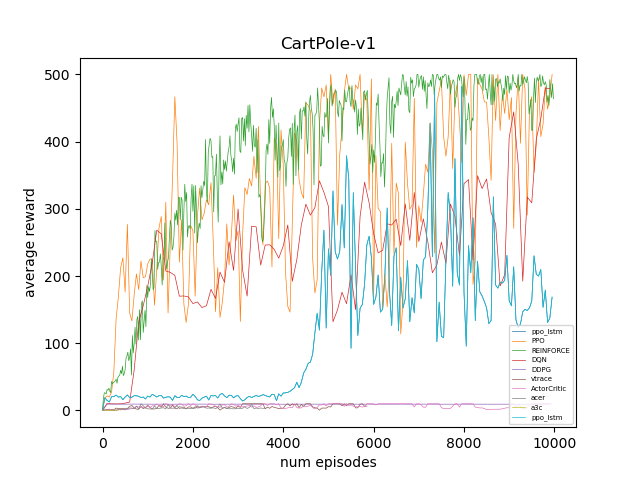
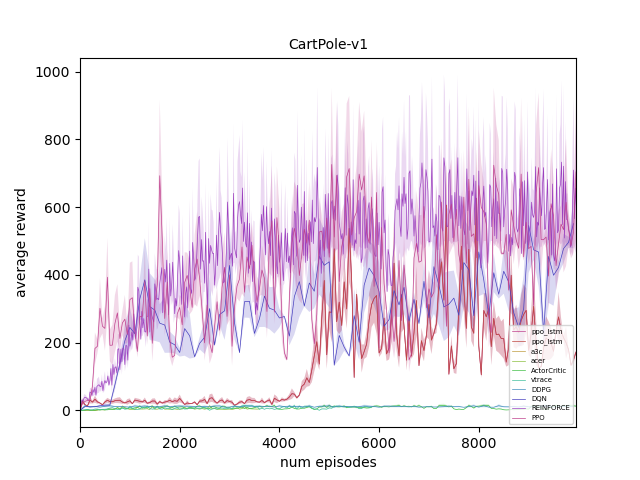
.

diff --git a/single_agent/vis/draw_line.py b/single_agent/vis/draw_line.py
@@ -1,53 +1,56 @@
-from typing import Counter
+import seaborn as sns
 import matplotlib.pyplot as plt
+import numpy as np
 import csv
+import random
 
 
-def draw_all(env, algo_name_list):
-    for algo_name in algo_name_list:
-        x = []
-        y = []
-        with open("./result/%s.csv" % algo_name, "r+", encoding="utf-8") as csvfile:
+def get_all_data(algo_list):
+    x = {}
+    y = {}
+    for algo in algo_list:
+        x[algo] = []
+        y[algo] = []
+        with open("result/%s.csv" % algo, "r+", encoding="utf-8") as csvfile:
+            epoch_number = []
+            average_reward = []
             reader = csv.DictReader(csvfile)
             for row in reader:
-                x.append(int(row['epoch_number']))
-                y.append(float(row['average reward']))
-            plt.plot(x, y, label=algo_name, linewidth=0.5)
-
-    plt.ylabel('average reward')
-    plt.xlabel('num episodes')
-    # plt.yticks((0, 500, 100))
-    # plt.xticks((0, 2000, 20))
-    plt.title(env)
-    plt.legend(loc='lower right', fontsize=5)  # 标签位置
-    plt.savefig("./vis/all-%s.png" % env)
+                epoch_number.append(int(row['epoch_number']))
+                average_reward.append(float(row['average reward']))
+        x[algo].append(epoch_number)
+        y[algo].append(average_reward)
+        y[algo].append([i + random.random() * i for i in average_reward])
+    return x, y
 
 
-def draw_single(env, algo_name):
-    plt.cla()
-    x = []
-    y = []
-    with open("./result/%s.csv" % algo_name, "r+", encoding="utf-8") as csvfile:
-        reader = csv.DictReader(csvfile)
-        for row in reader:
-            x.append(int(row['epoch_number']))
-            y.append(float(row['average reward']))
-        plt.plot(x, y, label=algo_name, linewidth=0.5)
+def draw_single(algo_list, color, x, y, env):
+    for i, algo in enumerate(algo_list):
+        plt.cla()
+        sns.tsplot(time=x[algo], data=y[algo], condition=algo, linewidth=0.5, color=color[i])
+        plt.ylabel('average reward', fontsize=10)
+        plt.xlabel('num episodes', fontsize=10)
+        plt.title(env, fontsize=10)
+        plt.legend(loc='lower right', fontsize=5)
+        plt.savefig("vis/%s--%s.png" % (algo, env))
 
-    plt.ylabel('average reward')
-    plt.xlabel('num episodes')
-    # plt.yticks((0, 500, 100))
-    # plt.xticks((0, 2000, 20))
-    plt.title(env)
-    plt.legend(loc='lower right', fontsize=5)  # 标签位置
-    plt.savefig("./vis/%s-%s.png" % (algo_name, env))
+
+def draw_all(algo_list, color, x, y, env):
+    for i, algo in enumerate(reversed(algo_list)):
+        sns.tsplot(time=x[algo], data=y[algo], condition=algo, linewidth=0.5, color=color[i])
+        plt.ylabel('average reward', fontsize=10)
+        plt.xlabel('num episodes', fontsize=10)
+        # plt.yticks((0, 500, 100))
+        # plt.xticks((0, 2000, 20))
+        plt.title(env, fontsize=10)
+        plt.legend(loc='lower right', fontsize=5)
+        plt.savefig("vis/ALL-%s.png" % (env))
 
 
 if __name__ == "__main__":
-    env = 'CartPole-v1'
-    algo_name_list = ['PPO', 'REINFORCE', 'DQN', "DDPG", "vtrace", 'ActorCritic', "acer", "a3c", "ppo_lstm"]
-
-    for item in algo_name_list:
-        draw_single(env, item)
-
-    draw_all(env, algo_name_list)
+    env = "CartPole-v1"
+    algo_list = ['PPO', 'REINFORCE', 'DQN', "DDPG", "vtrace", 'ActorCritic', "acer", "a3c", "ppo_lstm"]
+    x, y = get_all_data(algo_list)
+    color = sns.hls_palette(len(algo_list), l=.5, s=.5)  # l-亮度 lightness s-饱和 saturation
+    draw_single(algo_list, color, x, y, env)
+    draw_all(algo_list, color, x, y, env)

diff --git a/single_agent/args/config.py b/single_agent/args/config.py
@@ -13,7 +13,7 @@ default_params = {
     "n_train_processes": 3,
     "update_interval": 5,
     "max_train_steps": 60000,
-    "print_interval": 50,
+    "print_interval": 100,
     "max_train_ep": 10000,
     "max_test_ep": 400,
     "lr_mu": 0.0005,
